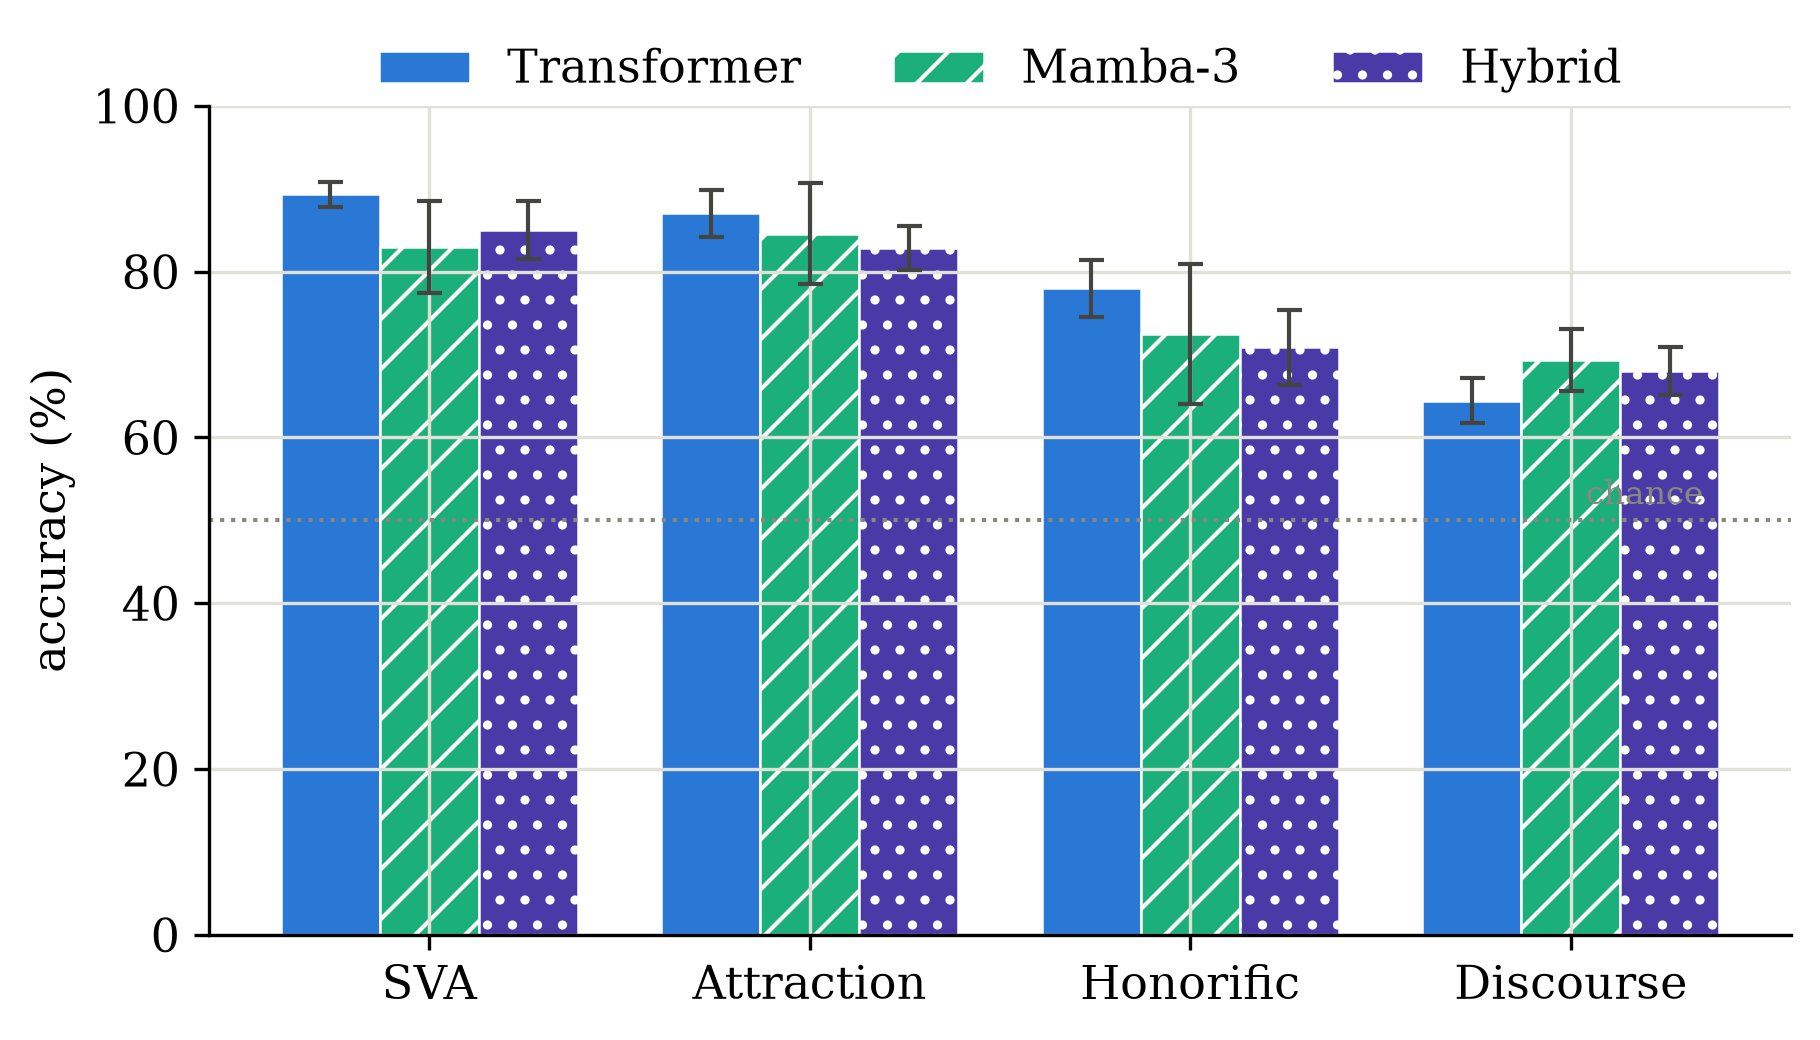
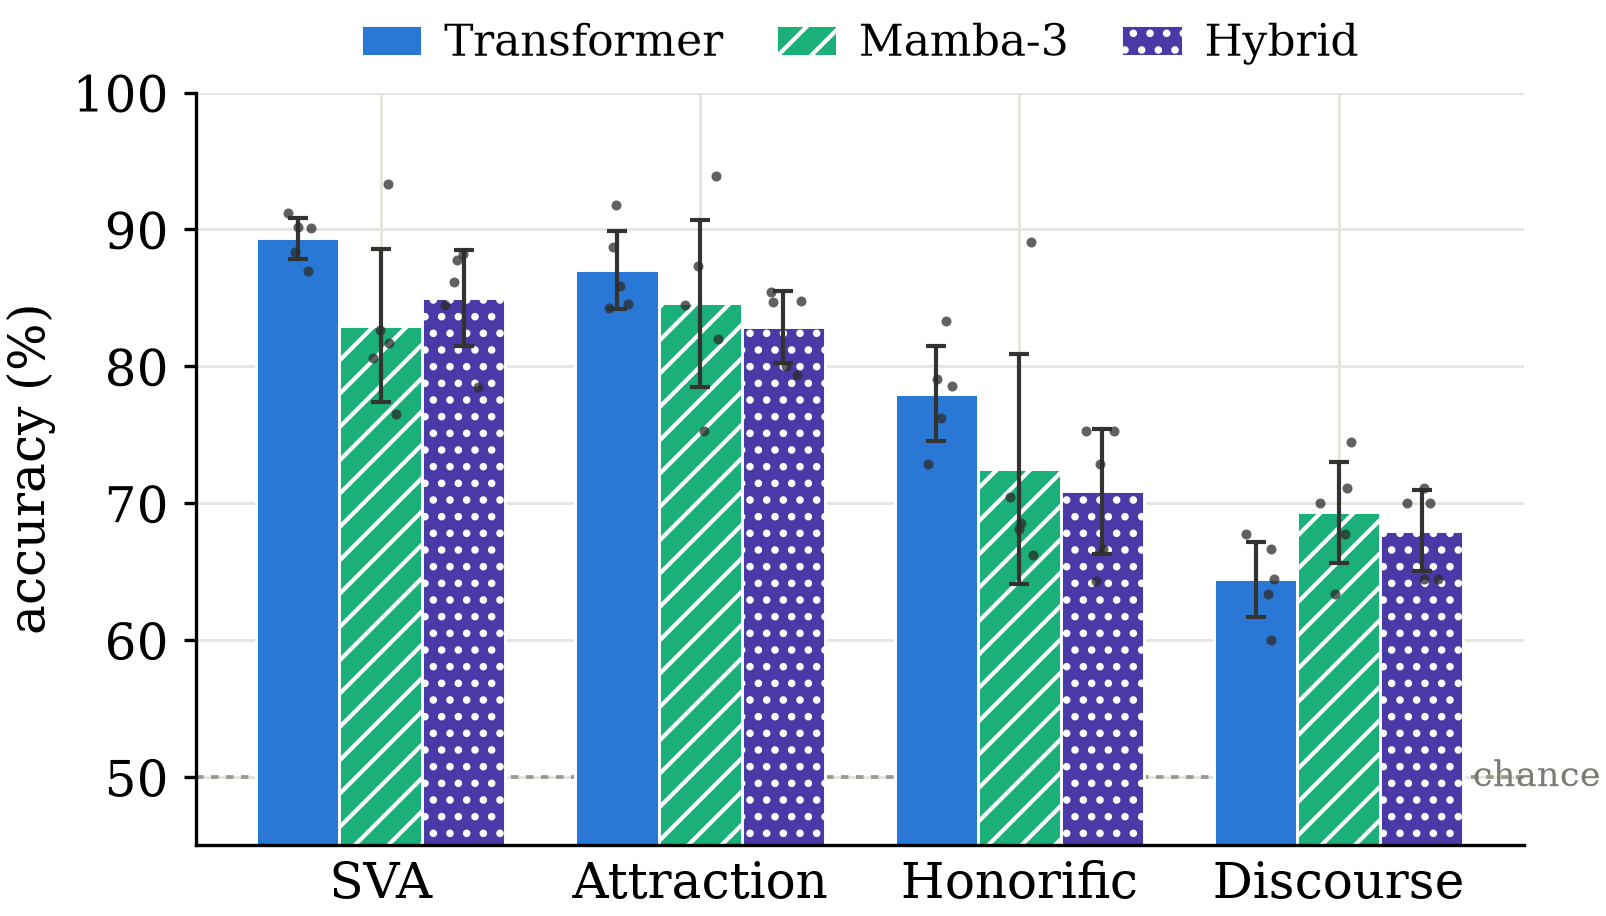
Paper-ready figures: single-column sizing, per-seed dots, cleaner labels
- All 3 figures redrawn for print: serif fonts legible at column width, colour-blind
  -safe palette with redundant marker/hatch encoding, constrained layout, PNG+PDF
- Overlay individual per-seed points on fig2/fig3 -> Mamba-3's cross-seed spread is
  now visible directly (reinforces the seed-sensitivity finding)
- fig1 Wilson CI bands; fig2 cross-seed SD + chance line; fig3 value labels above bars
- fix over-escaped percent signs; update figure captions

diff --git a/paper/figures.py b/paper/figures.py
@@ -2,8 +2,12 @@
 
   python paper/figures.py
 
-Writes PNG (300 dpi, for GitHub/preview) and PDF (vector, for LaTeX) into
+Writes PNG (300 dpi, preview) and PDF (vector, for LaTeX \\includegraphics) into
 paper/figures/. No data or GPU needed — reads the final scored numbers only.
+
+Design: colour-blind-safe palette with redundant marker/hatch encoding, individual
+per-seed points overlaid so cross-seed spread is visible, sized for a single ACL
+column (~3.3in) with fonts that stay legible at that width.
 """
 
 from __future__ import annotations
@@ -23,22 +27,31 @@ RES = json.loads((HERE / "results.json").read_text(encoding="utf-8"))
 OUT = HERE / "figures"
 OUT.mkdir(exist_ok=True)
 
-# consistent, colour-blind-safe palette + distinct markers/hatches per model
 MODELS = ["transformer", "mamba3", "hybrid"]
 LABEL = {"transformer": "Transformer", "mamba3": "Mamba-3", "hybrid": "Hybrid"}
 COLOR = {"transformer": "#2a78d6", "mamba3": "#1baf7a", "hybrid": "#4a3aa7"}
 MARKER = {"transformer": "o", "mamba3": "D", "hybrid": "^"}
-HATCH = {"transformer": "", "mamba3": "//", "hybrid": ".."}
+HATCH = {"transformer": "", "mamba3": "///", "hybrid": "..."}
+DOT = "#2c2c2a"
 
 plt.rcParams.update({
-    "font.size": 11,
+    "font.size": 12,
     "font.family": "serif",
+    "mathtext.fontset": "cm",
     "axes.spines.top": False,
     "axes.spines.right": False,
+    "axes.linewidth": 0.8,
     "axes.grid": True,
-    "grid.color": "#e1e0d9",
-    "grid.linewidth": 0.8,
+    "axes.axisbelow": True,
+    "grid.color": "#e6e5df",
+    "grid.linewidth": 0.7,
+    "xtick.major.size": 0,
+    "ytick.major.size": 3,
+    "legend.handlelength": 1.4,
+    "legend.handletextpad": 0.5,
+    "legend.columnspacing": 1.2,
     "figure.dpi": 300,
+    "savefig.dpi": 300,
 })
 
 
@@ -46,82 +59,106 @@ def _mean(xs):
     return sum(xs) / len(xs)
 
 
+def _sd(xs):
+    m = _mean(xs)
+    return (sum((v - m) ** 2 for v in xs) / len(xs)) ** 0.5
+
+
 def save(fig, name):
-    fig.tight_layout()
-    fig.savefig(OUT / f"{name}.png", bbox_inches="tight")
-    fig.savefig(OUT / f"{name}.pdf", bbox_inches="tight")
+    fig.savefig(OUT / f"{name}.png", bbox_inches="tight", pad_inches=0.02)
+    fig.savefig(OUT / f"{name}.pdf", bbox_inches="tight", pad_inches=0.02)
     plt.close(fig)
     print("wrote", name + ".png/.pdf")
 
 
 def fig_distance():
-    """Fig 1 — the headline: SVA accuracy vs subject-verb distance."""
+    """Fig 1 — headline: SVA accuracy vs subject-verb distance (Wilson 95% CI bands)."""
     order = RES["sva_by_distance"]["_order"]
-    x = range(len(order))
-    fig, ax = plt.subplots(figsize=(5.2, 3.6))
+    labels = ["none", "short", "medium", "long"]
+    x = list(range(len(order)))
+    fig, ax = plt.subplots(figsize=(3.5, 3.0), constrained_layout=True)
     for m in MODELS:
-        seeds = RES["sva_by_distance"][m]  # list of per-seed [none,short,medium,long]
+        seeds = RES["sva_by_distance"][m]
         mean, lo, hi = [], [], []
         for i, b in enumerate(order):
             mn, l, h = pooled_ci([s[i] for s in seeds], N[f"sva_{b}"])
             mean.append(mn * 100); lo.append(l * 100); hi.append(h * 100)
-        ax.fill_between(x, lo, hi, color=COLOR[m], alpha=0.15, linewidth=0)
-        ax.plot(x, mean, color=COLOR[m], marker=MARKER[m], markersize=6,
-                linewidth=2, label=LABEL[m])
-    ax.set_xticks(list(x))
-    ax.set_xticklabels(order)
+        ax.fill_between(x, lo, hi, color=COLOR[m], alpha=0.13, linewidth=0)
+        ax.plot(x, mean, color=COLOR[m], marker=MARKER[m], markersize=5.5,
+                markeredgecolor="white", markeredgewidth=0.6,
+                linewidth=1.8, label=LABEL[m], clip_on=False)
+    ax.set_xticks(x)
+    ax.set_xticklabels(labels)
     ax.set_xlabel("subject–verb distance")
     ax.set_ylabel("agreement accuracy (%)")
     ax.set_ylim(75, 95)
-    ax.legend(frameon=False, ncol=3, loc="upper center",
-              bbox_to_anchor=(0.5, 1.13), columnspacing=1.2, handletextpad=0.5)
+    ax.set_xlim(-0.15, len(order) - 0.85)
+    ax.legend(frameon=False, ncol=3, loc="lower center", bbox_to_anchor=(0.5, 1.0),
+              fontsize=10.5, borderaxespad=0.2)
     save(fig, "fig1_distance")
 
 
-def fig_probes():
-    """Fig 2 — accuracy by probe type, grouped bars with seed range as error."""
-    probes = ["sva_overall", "attraction_overall", "honorific_overall", "discourse_overall"]
-    conds = ["sva", "attraction", "honorific", "discourse"]
-    names = ["SVA", "Attraction", "Honorific", "Discourse"]
-    fig, ax = plt.subplots(figsize=(6.2, 3.6))
+def _grouped(ax, keys, conds, names, ylabel, ylim, chance=None):
     w = 0.26
+    rng = __import__("random").Random(0)
     for j, m in enumerate(MODELS):
-        means, errs = [], []
-        for p, c in zip(probes, conds):
-            vals = RES[p][m]
-            mn = sum(vals) / len(vals)
-            # cross-seed standard deviation: honest between-architecture spread
-            sd = (sum((v - mn) ** 2 for v in vals) / len(vals)) ** 0.5
-            means.append(mn * 100)
-            errs.append(sd * 100)
-        xs = [i + (j - 1) * w for i in range(len(probes))]
-        ax.bar(xs, means, width=w, color=COLOR[m], label=LABEL[m],
-               hatch=HATCH[m], edgecolor="white", linewidth=0.6,
-               yerr=errs, capsize=3, error_kw={"elinewidth": 1, "ecolor": "#444441"})
-    ax.axhline(50, color="#888780", linestyle=":", linewidth=1)
-    ax.text(3.35, 51, "chance", fontsize=8, color="#888780", va="bottom", ha="right")
-    ax.set_xticks(range(len(probes)))
+        xs, means, errs = [], [], []
+        for i, (k, c) in enumerate(zip(keys, conds)):
+            vals = [v * 100 for v in RES[k][m]]
+            xs.append(i + (j - 1) * w)
+            means.append(_mean(vals))
+            errs.append(_sd(vals))
+        ax.bar(xs, means, width=w, color=COLOR[m], label=LABEL[m], hatch=HATCH[m],
+               edgecolor="white", linewidth=0.7, zorder=2,
+               yerr=errs, capsize=2.5, error_kw={"elinewidth": 1, "ecolor": "#333331", "zorder": 4})
+        # individual per-seed points -> shows cross-seed spread directly
+        for i, k in enumerate(keys):
+            xc = i + (j - 1) * w
+            for v in RES[k][m]:
+                ax.plot(xc + rng.uniform(-0.06, 0.06), v * 100, "o", markersize=2.4,
+                        color=DOT, alpha=0.75, zorder=5, markeredgewidth=0)
+    if chance is not None:
+        ax.axhline(chance, color="#9a9990", linestyle=(0, (2, 2)), linewidth=0.9, zorder=1)
+        ax.annotate("chance", xy=(len(keys) - 1 + 0.42, chance), fontsize=8.5,
+                    color="#7a7a72", va="center", ha="left",
+                    annotation_clip=False)
+    ax.set_xticks(range(len(keys)))
     ax.set_xticklabels(names)
-    ax.set_ylabel("accuracy (%)")
-    ax.set_ylim(0, 100)
-    ax.legend(frameon=False, ncol=3, loc="upper center", bbox_to_anchor=(0.5, 1.12))
+    ax.set_ylabel(ylabel)
+    ax.set_ylim(*ylim)
+    ax.legend(frameon=False, ncol=3, loc="lower center", bbox_to_anchor=(0.5, 1.0),
+              fontsize=10.5, borderaxespad=0.2)
+
+
+def fig_probes():
+    """Fig 2 — accuracy by probe type (bars=mean, error=cross-seed SD, dots=seeds)."""
+    fig, ax = plt.subplots(figsize=(5.4, 3.1), constrained_layout=True)
+    _grouped(ax,
+             ["sva_overall", "attraction_overall", "honorific_overall", "discourse_overall"],
+             ["sva", "attraction", "honorific", "discourse"],
+             ["SVA", "Attraction", "Honorific", "Discourse"],
+             "accuracy (%)", (45, 100), chance=50)
     save(fig, "fig2_probes")
 
 
 def fig_perplexity():
-    """Fig 3 — held-out perplexity (lower is better)."""
-    fig, ax = plt.subplots(figsize=(3.6, 3.4))
+    """Fig 3 — held-out perplexity (lower is better); dots = per-seed."""
+    fig, ax = plt.subplots(figsize=(3.0, 3.0), constrained_layout=True)
+    rng = __import__("random").Random(1)
     for i, m in enumerate(MODELS):
         vals = RES["perplexity"][m]
-        mn = _mean(vals)
-        err = (max(vals) - min(vals)) / 2
-        ax.bar(i, mn, width=0.6, color=COLOR[m], hatch=HATCH[m],
-               edgecolor="white", linewidth=0.6, yerr=err, capsize=4,
-               error_kw={"elinewidth": 1, "ecolor": "#444441"})
-        ax.text(i, mn + 0.15, f"{mn:.1f}", ha="center", fontsize=10)
+        mn, sd = _mean(vals), _sd(vals)
+        ax.bar(i, mn, width=0.62, color=COLOR[m], hatch=HATCH[m], edgecolor="white",
+               linewidth=0.7, zorder=2, yerr=sd, capsize=3,
+               error_kw={"elinewidth": 1, "ecolor": "#333331", "zorder": 4})
+        for v in vals:
+            ax.plot(i + rng.uniform(-0.12, 0.12), v, "o", markersize=2.6,
+                    color=DOT, alpha=0.75, zorder=5, markeredgewidth=0)
+        ax.text(i, mn + sd + 0.12, f"{mn:.1f}", ha="center", va="bottom",
+                fontsize=10, color="#2c2c2a")
     ax.set_xticks(range(len(MODELS)))
-    ax.set_xticklabels([LABEL[m] for m in MODELS], rotation=12)
-    ax.set_ylabel("perplexity (↓)")
+    ax.set_xticklabels([LABEL[m] for m in MODELS], rotation=15, ha="right")
+    ax.set_ylabel("perplexity (lower is better)")
     ax.set_ylim(38, 43)
     save(fig, "fig3_perplexity")
 

diff --git a/paper/paper.md b/paper/paper.md
@@ -131,7 +131,7 @@ All numbers are means over five seeds; "±" is the cross-seed standard deviation
 
 ### 4.1 Perplexity — a robust SSM advantage
 
-![Held-out perplexity](figures/fig3_perplexity.png)
+![Held-out perplexity: bars are the 5-seed mean, error bars the cross-seed SD, dots individual seeds](figures/fig3_perplexity.png)
 
 | Model | Perplexity ↓ |
 |---|---|
@@ -146,7 +146,7 @@ expectation that attention's exact recall should help most.
 
 ### 4.2 The headline: agreement vs. distance
 
-![SVA accuracy vs. subject–verb distance](figures/fig1_distance.png)
+![SVA accuracy vs. subject–verb distance: lines are the 5-seed mean, shaded bands the Wilson 95% CI](figures/fig1_distance.png)
 
 The clearest architectural signal is not a level difference but a **slope** difference. Binning
 SVA pairs by subject–verb distance (mean over five seeds):
@@ -166,7 +166,7 @@ decay in the same way. This dissociation is the paper's most robust agreement fi
 
 ### 4.3 Between-architecture agreement gaps are mostly not robust
 
-![Accuracy by probe type (error bars = cross-seed SD)](figures/fig2_probes.png)
+![Accuracy by probe type: bars are the 5-seed mean, error bars the cross-seed SD, dots individual seeds; note Mamba-3's wide spread](figures/fig2_probes.png)
 
 | Model | SVA | Attraction | Honorific | Discourse |
 |---|---|---|---|---|